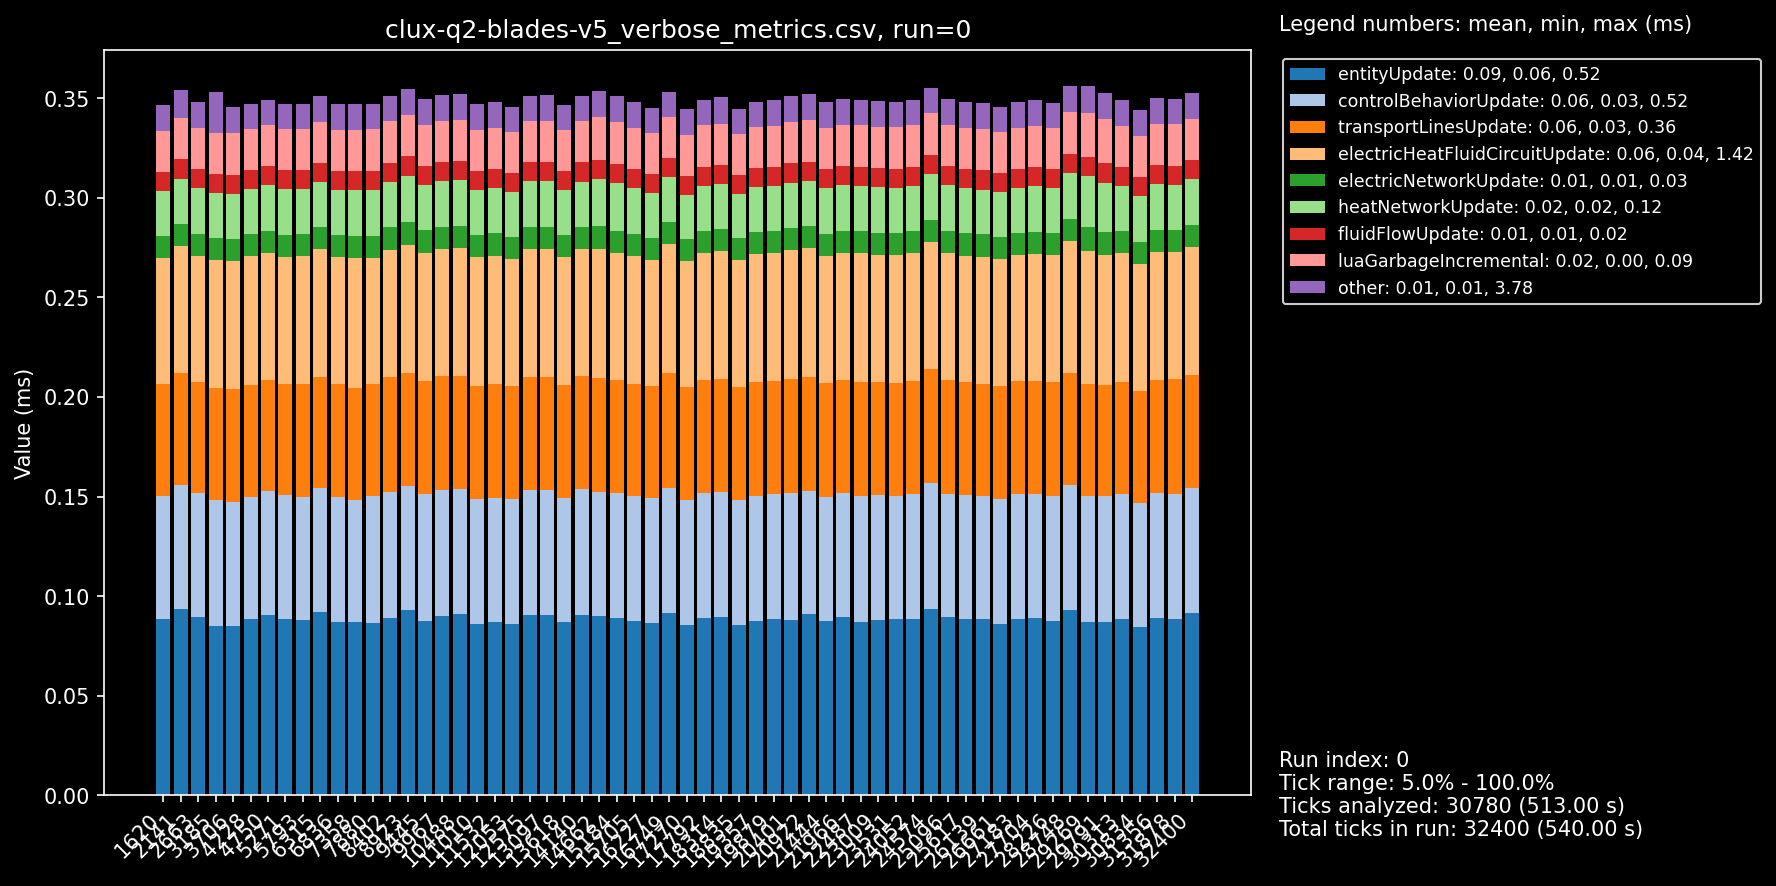
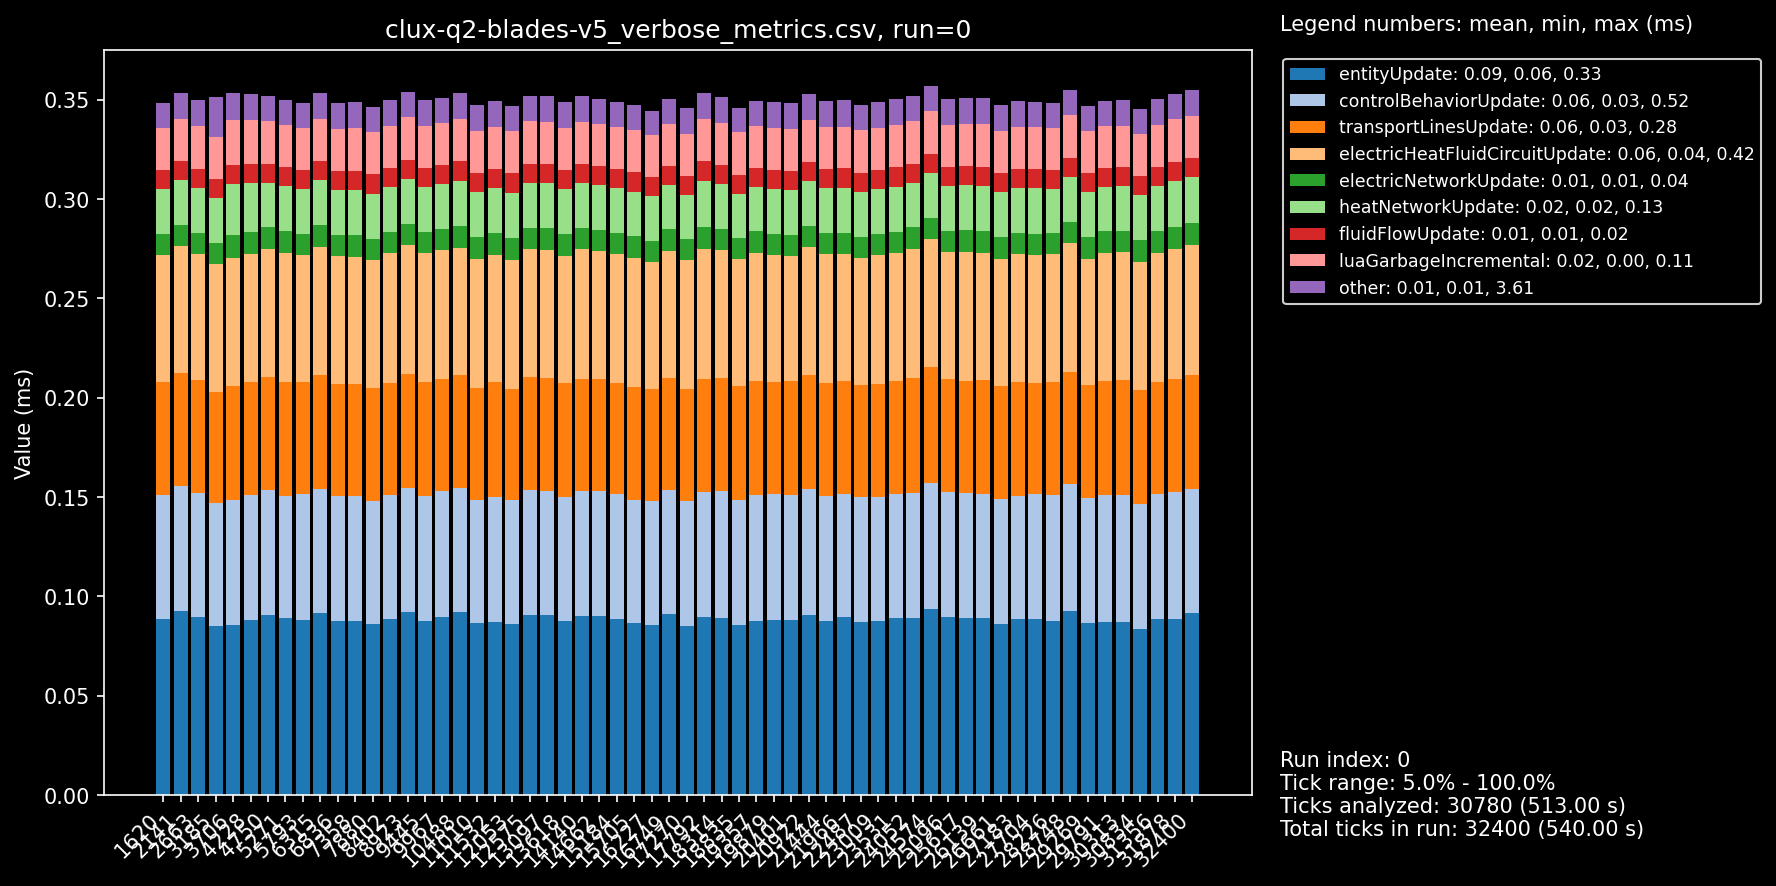
redo aquilo blade bench

diff --git a/aquilo/benches/README.md b/aquilo/benches/README.md
@@ -2,10 +2,10 @@
 
 **Platform:** linux-x86_64
 **Factorio Version:** 2.0.73
-**Date:** 2026-02-03
+**Date:** 2026-02-09
 
 ## Scenario
-* Each save was tested for 32400 tick(s) and 5 run(s)
+* Each save was tested for 32400 tick(s) and 25 run(s)
 
 ## Results
 | Metric            | Description                           |
@@ -17,19 +17,20 @@
 
 | Save | Avg (ms) | Min (ms) | Max (ms) | UPS | Execution Time (ms) | % Difference from base |
 |------|----------|----------|----------|-----|---------------------|------------------------|
-| clux-q2-blades-v1 | 0.534 | 0.385 | 5.089 | 1872 | 86511 | 0.00% |
-| clux-q2-blades-v1-heatsep | 0.413 | 0.272 | 5.010 | 2421 | 66907 | 29.30% |
-| clux-q2-blades-v3 | 0.378 | 0.239 | 4.811 | 2645 | 61234 | 41.28% |
-| clux-q2-blades-v5-miniheat | 0.363 | 0.216 | 4.239 | 2756 | 58774 | 47.19% |
-| clux-q2-blades-v5 | 0.361 | 0.219 | 4.444 | **2768** | 58508 | 47.86% |
+| clux-q2-blades-v1 | 0.534 | 0.377 | 5.123 | 1872 | 86503 | 0.00% |
+| clux-q2-blades-v1-heatsep | 0.402 | 0.255 | 4.918 | 2486 | 65156 | 32.75% |
+| clux-q2-blades-v3 | 0.378 | 0.239 | 4.756 | 2643 | 61282 | 41.15% |
+| clux-q2-blades-v5 | 0.361 | 0.205 | 4.186 | 2768 | 58511 | 47.83% |
+| clux-q2-blades-v6 | 0.349 | 0.205 | 4.276 | **2862** | 56599 | 52.83% |
 
 ## Conclusion
 This is basically comparing;
 
-1. 8 blades of my current V5
-2. 8 blades of a previous V3 (with worse ice upcycling, and lithium less clocking overall)
-3. 8 blades of original V1 (using **bots** for rocket parts)
-4. 8 blades of original V1 (using **bots** and single **global heat network**)
+1. 8 blades of my current V6 (less heatpipes)
+2. 8 blades of a previous V5 (better clocking, less heatpipes)
+3. 8 blades of a previous V3 (with worse ice upcycling, and lithium less clocking overall)
+4. 8 blades of original V1 (using **bots** for rocket parts)
+5. 8 blades of original V1 (using **bots** and single **global heat network**)
 
 note that i am testing the full pipeline here, including rocket launches, had a dummy platform over aquilo that voided all requests. 5x5m run.
 
@@ -53,13 +54,13 @@ v3 graph
 ### V3 -> V5
 from green to purple is basically only the smaller tweaks; better clocking, car DI on ice upcycling, less fluid voiding cryos. less heat pipes (less fluids on bus).
 
-the red line was an experiment to see if i took heat pipes to an extreme, basically separate everything so that each blade had 9 separate neetworks. surprisingly this was worse.
-this may end up being statistical noise, but it does suggest there may be a sweet spot for how small you should make your heat networks.
-
-compare v5 to v5 maximally separated;
-
 ![v5](04-cryo-v5.png)
-![v5 miniheat](05-cryo-v5-miniheat.png)
+
+### V5 -> V6
+only real difference here is 100 less heatpipes per blade substituting with cars.
+tried optimizing gc on fluid voiding and it did nothing.
+
+![v6](06-cryo-v6.png)
 
 so the main takeaways is that you should do the easiest, least technical thing first;
 
